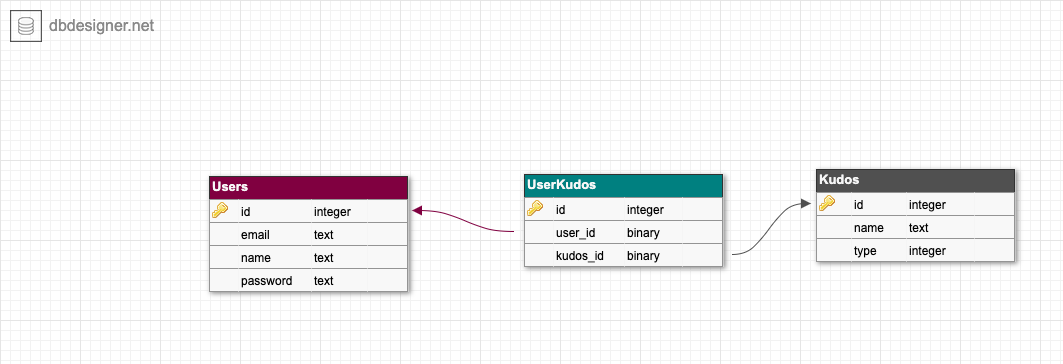
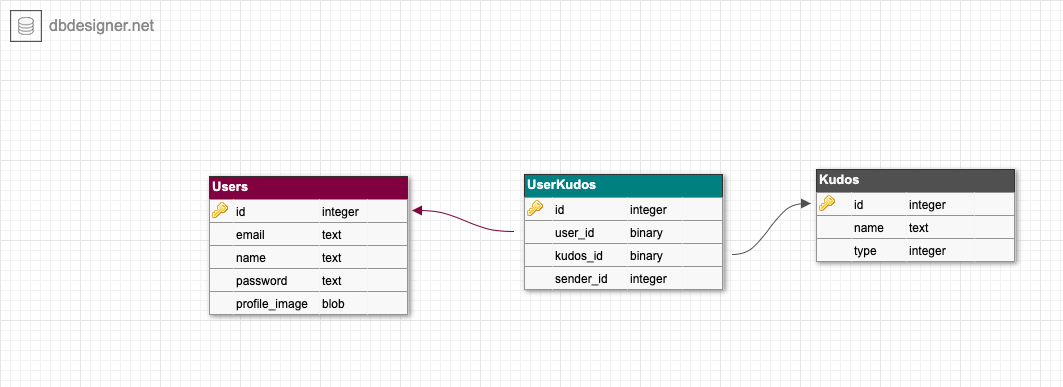
:bug: Fixes bug releated to grabbing right amount of kudos a brother can send to another
Adds a field in the user_kudos db to make sure the sender is tracked when sends kudo to a brother

Changed region(s): [[0.1863, 0.4231, 0.683, 0.8462], [0.683, 0.4231, 0.9624, 0.7555], [0.0, 0.0, 0.1552, 0.1209]]

diff --git a/app/models/user_kudo.rb b/app/models/user_kudo.rb
@@ -4,6 +4,7 @@ class UserKudo < ApplicationRecord
 
   before_save :verify_maximum_kudos
 
+  # mudar aqui para alterar o maximo de Kudos por tipo
   @@maximum_kudos_per_type = 2
 
   attr_accessor :maximum_kudos_per_type
@@ -11,7 +12,7 @@ class UserKudo < ApplicationRecord
   private
 
   def verify_maximum_kudos
-    if UserKudo.where(:user_id => self.user_id, :kudo_id => self.kudo_id).count >= @@maximum_kudos_per_type
+    if UserKudo.where(:sender_id => self.sender_id, :kudo_id => self.kudo_id).count >= @@maximum_kudos_per_type
       errors.add(:error, "Não possui mais Kudos desse tipo!")
       throw :abort
     end
@@ -24,9 +25,11 @@ class UserKudo < ApplicationRecord
     kudo_amounts = Kudo.select(:kudo_type).uniq
 
     kudo_amounts.each do |kudo|
-      kudo_amount = UserKudo.where(:user_id => user_kudos_params[:user_id], :kudo_id => kudo.kudo_type)
+      kudo_amount = UserKudo.where(:sender_id => user_kudos_params[:sender_id], :kudo_id => kudo.kudo_type)
       available_kudos << {name: Kudo.where(kudo_type: kudo.kudo_type).first['name'], type: kudo.kudo_type, available_kudos: (@@maximum_kudos_per_type - kudo_amount.count)}
     end
+
+    available_kudos << {updated_at: Time.now}
 
     {data: available_kudos}
 

diff --git a/db/schema.rb b/db/schema.rb
@@ -10,7 +10,7 @@
 #
 # It's strongly recommended that you check this file into your version control system.
 
-ActiveRecord::Schema.define(version: 2020_05_22_170554) do
+ActiveRecord::Schema.define(version: 2020_05_22_204523) do
 
   # These are extensions that must be enabled in order to support this database
   enable_extension "plpgsql"
@@ -48,6 +48,7 @@ ActiveRecord::Schema.define(version: 2020_05_22_170554) do
     t.bigint "kudo_id", null: false
     t.datetime "created_at", precision: 6, null: false
     t.datetime "updated_at", precision: 6, null: false
+    t.bigint "sender_id", null: false
     t.index ["kudo_id"], name: "index_user_kudos_on_kudo_id"
     t.index ["user_id"], name: "index_user_kudos_on_user_id"
   end

diff --git a/app/controllers/v1/user_kudos_controller.rb b/app/controllers/v1/user_kudos_controller.rb
@@ -53,7 +53,7 @@ module V1
 
     # Only allow a trusted parameter "white list" through.
     def user_kudo_params
-      params.require(:user_kudo).permit(:user_id, :kudo_id)
+      params.require(:user_kudo).permit(:user_id, :kudo_id, :sender_id)
     end
   end
 

diff --git a/db/migrate/20200522204523_add_sender_id_to_user_kudos.rb b/db/migrate/20200522204523_add_sender_id_to_user_kudos.rb
@@ -1,0 +1,5 @@
+class AddSenderIdToUserKudos < ActiveRecord::Migration[6.0]
+  def change
+    add_column :user_kudos, :sender_id, :bigint, null: false
+  end
+end
